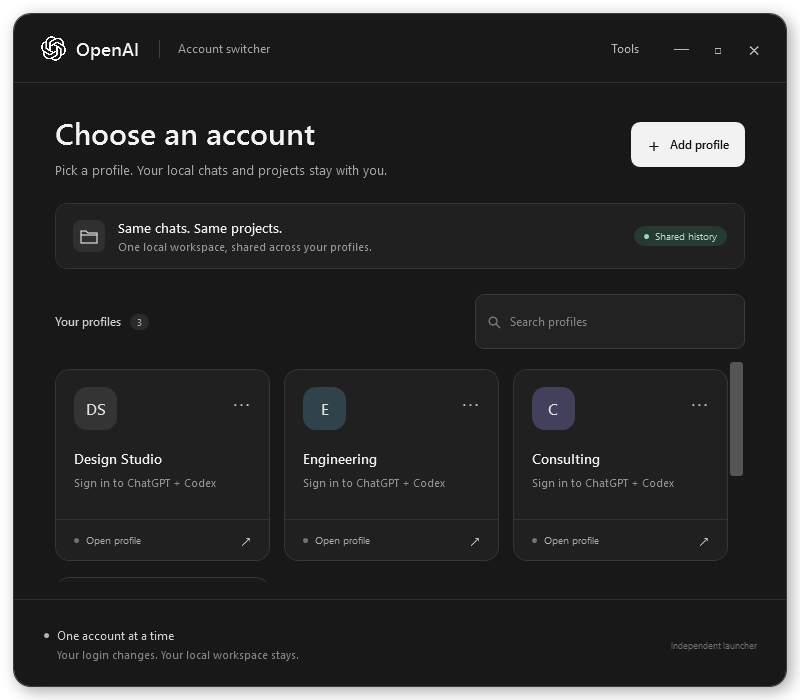
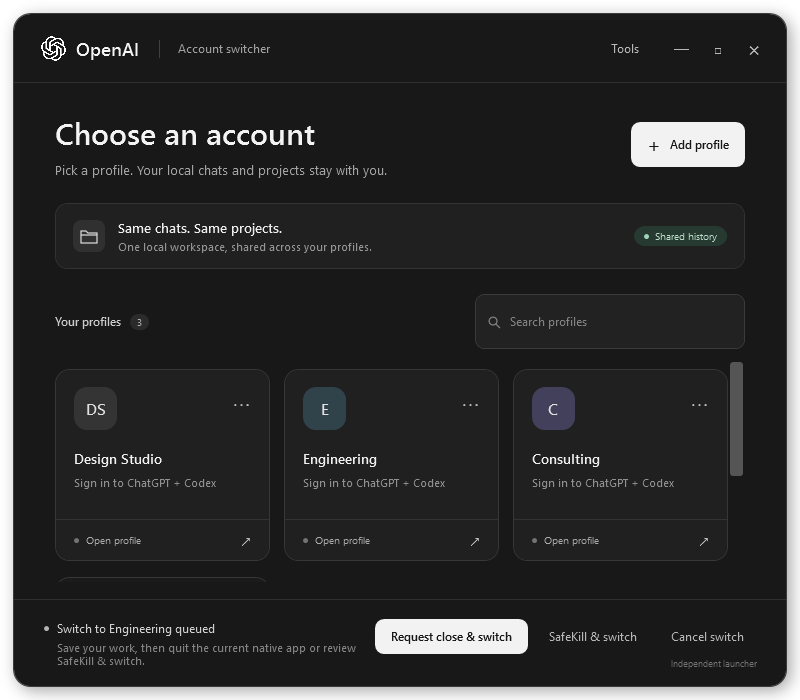
Document SafeKill usage with queued-switch and confirmation screenshots

diff --git a/README.md b/README.md
@@ -14,7 +14,7 @@ An independent Windows launcher for native ChatGPT / Codex account profiles, swi
 
 </div>
 
-![ChatGPT and Codex account switcher on Windows showing three native account profiles, shared local history and the add-profile button](docs/images/chatgpt-codex-account-switcher-windows.png)
+![ChatGPT and Codex account switcher on Windows with a queued profile and the SafeKill and switch button beside normal close and cancel](docs/images/safekill-queued-account-switch.png)
 
 ## Switch work accounts without repeated sign-outs
 
@@ -41,13 +41,13 @@ Organize company or personal profiles, keep recognizable account names, and swit
 
 ## Screenshots
 
-Actual v5.1 launcher renders using demonstration profiles; no real account details are shown.
+Actual v5.1.1 launcher renders using demonstration profiles. The screenshot above shows the queued-switch controls, including **SafeKill & switch**. The confirmation below uses example process IDs; no real account details are shown.
 
 <table>
 <tr>
 <td align="center" width="65%">
-<img src="docs/images/account-profiles-compact-layout.png" alt="Compact Windows account-switcher layout with searchable ChatGPT and Codex profiles" width="640">
-<br><strong>Compact profile picker</strong>
+<img src="docs/images/account-profiles-compact-layout.png" alt="Compact Windows account switcher showing the queued profile and SafeKill and switch button" width="640">
+<br><strong>Compact picker with SafeKill</strong>
 </td>
 <td align="center" width="35%">
 <img src="docs/images/add-native-account-profile.png" alt="Add profile dialog for creating a separately saved native account login" width="360">
@@ -112,9 +112,33 @@ For portable use, open `OpenAIProfiles-V5.1.1.exe` directly. Portable mode still
 
 Select another profile. If a native account is already running, the launcher queues your selection. Use **Request close & switch** to request a normal close, or quit the native app yourself. If it remains in the tray, choose **Quit** there. The next profile opens after the current native sessions exit.
 
-**SafeKill & switch** is available for a stuck queue. It asks for confirmation, tries a normal close, then force-stops only captured native processes whose identity still matches. Unsaved work and running tasks can be lost; an open Codex chat will disconnect. It does not delete saved login or history files. Newly started sessions are left running and keep the switch queued.
+### 6. Use SafeKill if the switch stays queued
 
-Without SafeKill confirmation, the launcher does not force-close ongoing work. **Cancel switch** clears the pending account. Its single-account guard applies to launches made through this utility; it cannot prevent sessions started directly elsewhere.
+**Available in v5.1.1 and later.** Save your work before using it. The button appears in the bottom-right switch controls only after you select a different profile while native sessions are still running.
+
+1. Select the profile you want to open. Its status changes to **Switch to [profile] queued**.
+2. Try **Request close & switch**, or quit the native app from its tray menu first.
+3. If sessions remain and you want to stop them, click **SafeKill & switch**.
+4. Read **Force quit current sessions?**. It lists the captured process count and IDs. Choose **Cancel** to leave them running, or **Force quit & switch** to proceed.
+5. The launcher requests a normal close, waits briefly, then force-stops any remaining captured native processes whose identity still matches. Once all native blockers have exited, it opens the queued profile through the usual launch checks. You may be asked to review compatibility after a native-app update.
+
+<p align="center">
+<img src="docs/images/safekill-force-quit-confirmation.png" alt="SafeKill confirmation dialog warning about unsaved work and offering Cancel or Force quit and switch" width="460">
+<br><em>SafeKill requires explicit confirmation before stopping sessions.</em>
+</p>
+
+**Unsaved work and running tasks may be lost. Any open Codex chat will disconnect.** SafeKill does not delete saved login or history files; forced termination still depends on the native app's crash recovery. It checks each captured process's PID, start time and executable identity before stopping it.
+
+Newly started or protected sessions can keep the switch queued. They are not silently swept into the original force-quit action. Review the remaining sessions before trying again.
+
+| Control | Effect |
+| --- | --- |
+| **Request close & switch** | Requests a normal window close. A tray app may still require Quit. |
+| **SafeKill & switch** | Opens the force-quit warning; nothing is terminated until you confirm. |
+| **Cancel** in the warning | Leaves the captured sessions running and keeps the profile queued. |
+| **Cancel switch** in the picker | Clears the queued profile. |
+
+Without SafeKill confirmation, the launcher does not force-close ongoing work. Its single-account guard applies to launches made through this utility; it cannot prevent sessions started directly elsewhere.
 
 ## How shared local chats and projects work
 
@@ -169,7 +193,7 @@ No. This is an independent project and is not affiliated with or endorsed by Ope
 
 ## v5.1.1: SafeKill for stuck switches
 
-Added an explicit force-quit action for queued switches, with an unsaved-work warning, captured PID/start-time/executable checks, normal-close grace period and a fresh one-account guard before opening the next profile. Focused checks terminated only scratch processes; cancellation retained all existing native sessions. See [SafeKill test results](SafeKill-test-report.txt).
+**45 checks passed** for this update: 12 focused SafeKill checks, 22 launcher UI checks and 11 installer checks. Added an explicit force-quit action for queued switches, with an unsaved-work warning, captured PID/start-time/executable checks, normal-close grace period and a fresh one-account guard before opening the next profile. Focused checks terminated only scratch processes; cancellation retained all existing native sessions. See [SafeKill test results](SafeKill-test-report.txt).
 
 ## Validation and known limits
 
